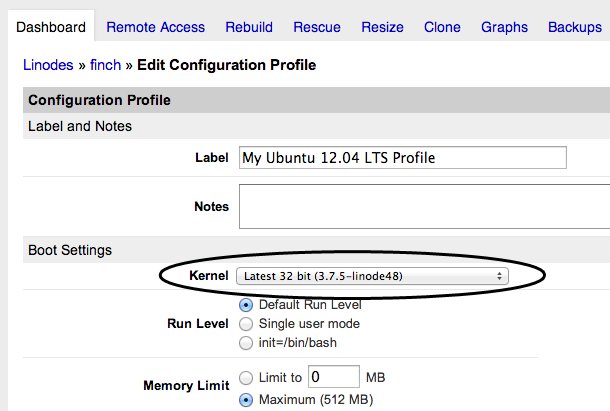
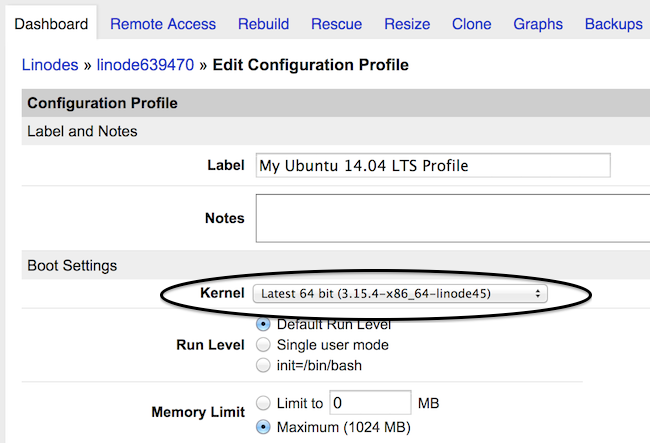
Touching up Monitoring And Maintaing Guide for 64 Bit Infrastructure

diff --git a/docs/uptime/monitoring-and-maintaining-your-server.md b/docs/uptime/monitoring-and-maintaining-your-server.md
@@ -158,9 +158,9 @@ Here's how to check for a new kernel and start using it on your Linode:
 
         cat /proc/version
 
-2.  Examine the output and remember the version number (in this case, 3.7.5). It should match the latest available version of the kernel in the Linode Manager, as you'll see in just a minute:
+2.  Examine the output and remember the version number (in this case, 3.15.4) It should match the latest available version of the kernel in the Linode Manager, as you'll see in just a minute:
 
-        Linux version 3.7.5-linode48 (maker@build) (gcc version 4.4.5 (Debian 4.4.5-8) ) #1 SMP Thu Jan 31 14:40:54 EST 2013
+        Linux version 3.15.4-x86_64-linode45 (maker@build) (gcc version 4.4.5 (Debian 4.4.5-8) ) #1 SMP Mon Jul 7 08:42:36 EDT 2014
 
 3.  Log in to the [Linode Manager](https://manager.linode.com).
 4.  Click the **Linodes** tab. A list of your virtual private servers appears.
@@ -169,7 +169,7 @@ Here's how to check for a new kernel and start using it on your Linode:
 
 [![Selecting the active configuration profile](/docs/assets/1195-monitor6-1.png)](/docs/assets/1195-monitor6-1.png)
 
-7.  From the **Kernel** menu, verify that **Latest 32 bit** is selected, as shown below.
+7.  From the **Kernel** menu, verify that **Latest 64 bit** is selected, as shown below.
 
  {: .note }
 >
